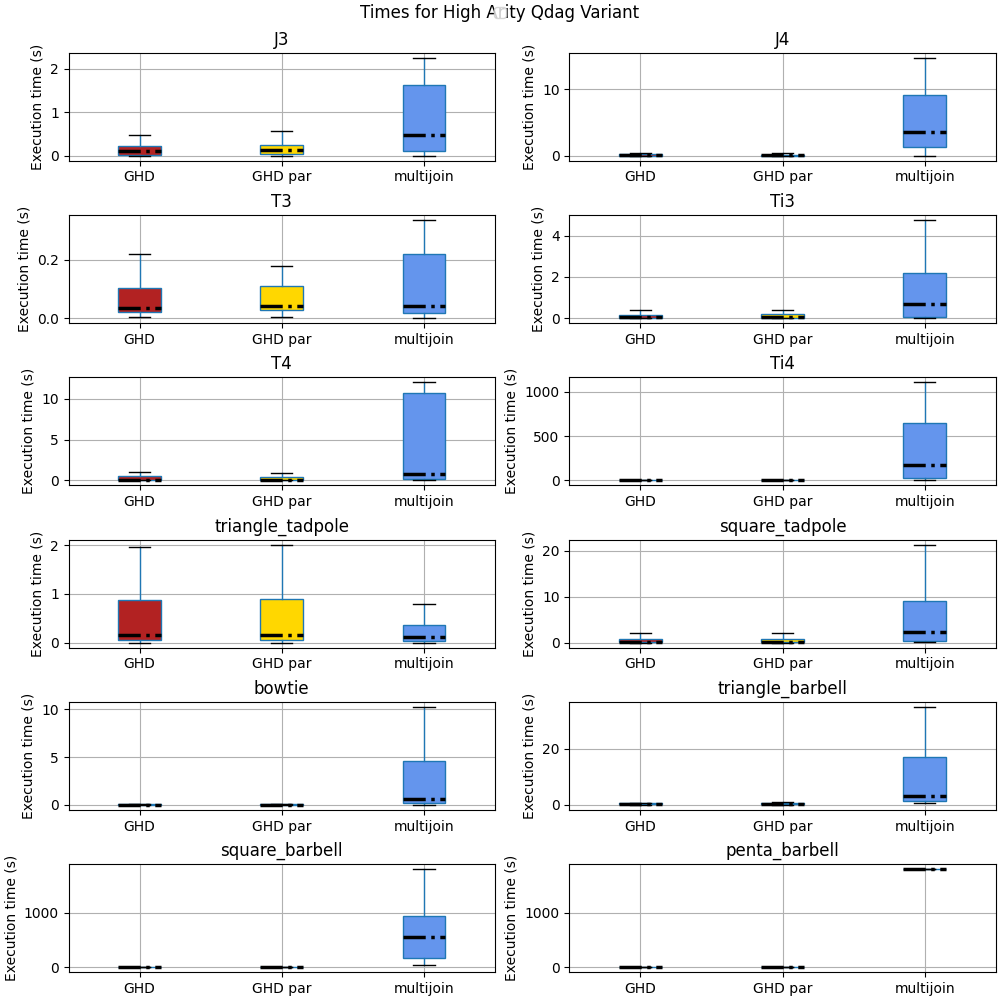
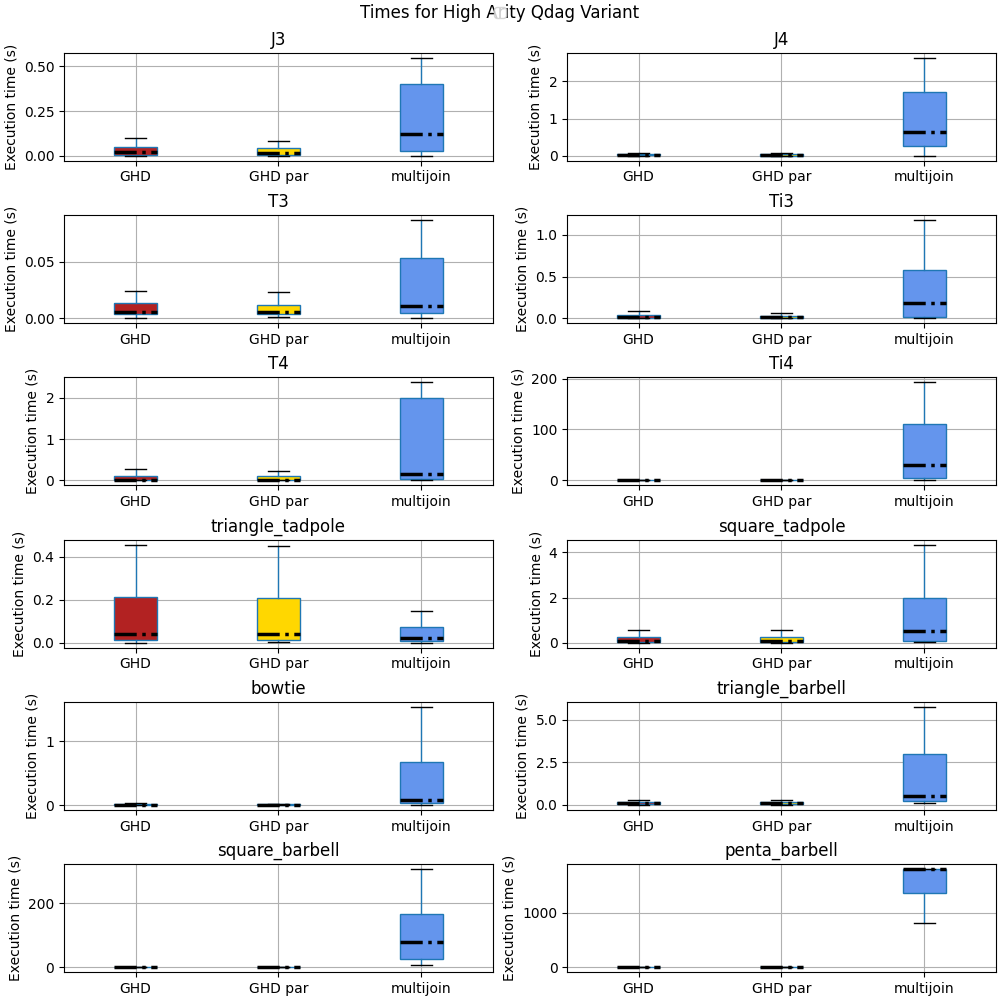
new charts

diff --git a/plotter.py b/plotter.py
@@ -37,27 +37,28 @@ def plot_config():
     fig.suptitle('Times for Different Decompositions in high arity qdag')
 
     for i, m in enumerate(multi):
-        df1 = pd.read_csv(f"outputs_time/ha_{m}_ghd_yk_1.csv", names=["time"])
-        df2 = pd.read_csv(f"outputs_time/ha_{m}_ghd_yk_2.csv", names=["time"])
-        df3 = pd.read_csv(f"outputs_time/ha_{m}_ghd_yk_3.csv", names=["time"])
-
-        res = pd.merge(df1, df2, left_index=True, right_index=True, suffixes=('_1', '_2'))
-        res = pd.merge(res, df3, left_index=True, right_index=True)
-        res.rename(columns={"time_1":"config 1", "time_2":"config 2", "time":"config 3"}, inplace=True)
+        res = pd.read_csv(f"outputs_time/{m}_ghd_yk_1.csv", names=["time"])
+        for j in range(2, ghd_confs[m]+1):
+            res = pd.merge(res, pd.read_csv(f"outputs_time/{m}_ghd_yk_{j}.csv", names=["time"]), left_index=True, right_index=True, suffixes=('', f'_{j}'))
+        
+        res=res.set_axis([f'config {x}' for x in range(1, ghd_confs[m]+1)], axis='columns')
+        
+        print(res.columns)
+        
         ax = axes[i//2][i%2]
         ax.set_title(m)
         ax.set_ylabel('Execution time (s)')
         bplot, props = res.boxplot(
-            ax=ax, 
-            column=['config 1', 'config 2', 'config 3'],
+            ax=ax,   
             patch_artist=True,
             medianprops=medianprops,
             showmeans=False,
             showfliers=False,
-            return_type='both',
-            label=['config 1', 'config 2', 'config 3'],
+            return_type='both'
         )
-        colors = ['firebrick', 'gold', 'cornflowerblue']
+        ax.tick_params(axis='x', labelrotation=45)
+
+        colors = ['firebrick', 'gold', 'cornflowerblue', 'saddlebrown', 'lightpink', 'darkseagreen', 'mediumpurple', 'darkorange', 'olive']
 
         for patch, color in zip(props['boxes'], colors):
             patch.set_facecolor(color)
@@ -76,20 +77,20 @@ def plot_times():
 
     for i, p in enumerate(patterns):
         if p in multi:
-            df1 = pd.read_csv(f"outputs_time/ha_{p}_ghd_yk_1.csv", names=["time"])
+            yk_res = pd.read_csv(f"outputs_time/{p}_ghd_yk_1.csv", names=["time"])
             for j in range(2, ghd_confs[p]+1):
-                yk_res = pd.merge(df1, pd.read_csv(f"outputs_time/ha_{p}_ghd_yk_{j}.csv", names=["time"]), left_index=True, right_index=True, suffixes=('_1', f'_{j}'))
+                yk_res = pd.merge(yk_res, pd.read_csv(f"outputs_time/{p}_ghd_yk_{j}.csv", names=["time"]), left_index=True, right_index=True, suffixes=('', f'_{j}'))
             yk_res["GHD"] = yk_res.min(axis=1)
-            df1p = pd.read_csv(f"outputs_time/ha_{p}_ghd_yk_par_1.csv", names=["time"])
-            for j in range(1, ghd_confs[p]+1):
-                ykp_res = pd.merge(df1p, pd.read_csv(f"outputs_time/ha_{p}_ghd_yk_{j}.csv", names=["time"]), left_index=True, right_index=True, suffixes=('_1', f'_{j}'))
-            
+            ykp_res = pd.read_csv(f"outputs_time/{p}_ghd_yk_par_1.csv", names=["time"])
+            for j in range(2, ghd_confs[p]+1):
+                ykp_res = pd.merge(ykp_res, pd.read_csv(f"outputs_time/{p}_ghd_yk_par_{j}.csv", names=["time"]), left_index=True, right_index=True, suffixes=('', f'_{j}'))
+
             ykp_res["GHD par"] = ykp_res.min(axis=1)
-            df_mj = pd.read_csv(f"outputs_time/ha_{p}_ghd_mj.csv", names=["multijoin"])
+            df_mj = pd.read_csv(f"outputs_time/{p}_ghd_mj.csv", names=["multijoin"])
         else:
-            yk_res = pd.read_csv(f"outputs_time/ha_{p}_yk.csv", names=["GHD"])
-            ykp_res = pd.read_csv(f"outputs_time/ha_{p}_yk_par.csv", names=["GHD par"])
-            df_mj = pd.read_csv(f"outputs_time/ha_{p}_mj.csv", names=["multijoin"])
+            yk_res = pd.read_csv(f"outputs_time/{p}_yk_1.csv", names=["GHD"])
+            ykp_res = pd.read_csv(f"outputs_time/{p}_yk_par_1.csv", names=["GHD par"])
+            df_mj = pd.read_csv(f"outputs_time/{p}_mj.csv", names=["multijoin"])
 
         df_mj[df_mj['multijoin'] == 'timeout'] = 1800
         df_mj["multijoin"] = pd.to_numeric(df_mj["multijoin"], downcast='float')
@@ -118,7 +119,7 @@ def plot_times():
 
     handles, labels = plt.gca().get_legend_handles_labels()
     fig.legend(handles, labels, loc='upper center')
-    plt.savefig("outputs/times")
+    plt.savefig("outputs/ha_times")
 
 def yk_times():
     patterns = ["J3", "J4", "T3", "Ti3", "T4", "Ti4", "triangle_tadpole", "square_tadpole", "bowtie", "triangle_barbell", "square_barbell", "penta_barbell"]
@@ -126,31 +127,51 @@ def yk_times():
     multi = ["J3", "J4", "T3", "Ti3", "T4", "Ti4"]
     data = {"Pattern": [], "Mean difference": [], "Median difference": [], "Most  hindrance": [], "Most improvement": []}
     df = pd.DataFrame(data)
+    medianprops = dict(linestyle='-.', linewidth=2.5, color='black')
+    df = pd.DataFrame(data)
+    fig = plt.figure(layout='constrained', figsize=(10, 10))
+    axes = fig.subplots(6, 2)
+    fig.suptitle('Times for High Arity Qdag Variant')
     for i, p in enumerate(patterns):
         if p in multi:
-            df1 = pd.read_csv(f"outputs_time/ha_{p}_ghd_yk_1.csv", names=["time"])
-            df2 = pd.read_csv(f"outputs_time/ha_{p}_ghd_yk_2.csv", names=["time"])
-            df3 = pd.read_csv(f"outputs_time/ha_{p}_ghd_yk_3.csv", names=["time"])
-
-            yk_res = pd.merge(df1, df2, left_index=True, right_index=True, suffixes=('_1', '_2'))
-            yk_res = pd.merge(yk_res, df3, left_index=True, right_index=True)
+            yk_res = pd.read_csv(f"outputs_time/{p}_ghd_yk_1.csv", names=["time"])
+            for j in range(2, ghd_confs[p]+1):
+                yk_res = pd.merge(yk_res, pd.read_csv(f"outputs_time/{p}_ghd_yk_{j}.csv", names=["time"]), left_index=True, right_index=True, suffixes=('', f'_{j}'))
             yk_res["GHD"] = yk_res.min(axis=1)
-            df1p = pd.read_csv(f"outputs_time/ha_{p}_ghd_yk_par_1.csv", names=["time"])
-            df2p = pd.read_csv(f"outputs_time/ha_{p}_ghd_yk_par_2.csv", names=["time"])
-            df3p = pd.read_csv(f"outputs_time/ha_{p}_ghd_yk_par_3.csv", names=["time"])
-
-            ykp_res = pd.merge(df1p, df2p, left_index=True, right_index=True)
-            ykp_res = pd.merge(ykp_res, df3p, left_index=True, right_index=True)
+            ykp_res = pd.read_csv(f"outputs_time/{p}_ghd_yk_par_1.csv", names=["time"])
+            for j in range(2, ghd_confs[p]+1):
+                ykp_res = pd.merge(ykp_res, pd.read_csv(f"outputs_time/{p}_ghd_yk_par_{j}.csv", names=["time"]), left_index=True, right_index=True, suffixes=('', f'_{j}'))
+            print(yk_res)
             ykp_res["GHD par"] = ykp_res.min(axis=1)
+            print(ykp_res)
         else:
-            yk_res = pd.read_csv(f"outputs_time/ha_{p}_yk.csv", names=["GHD"])
-            ykp_res = pd.read_csv(f"outputs_time/ha_{p}_yk_par.csv", names=["GHD par"])
+            yk_res = pd.read_csv(f"outputs_time/{p}_yk_1.csv", names=["GHD"])
+            ykp_res = pd.read_csv(f"outputs_time/{p}_yk_par_1.csv", names=["GHD par"])
 
         res = pd.merge(yk_res[["GHD"]], ykp_res[["GHD par"]], left_index=True, right_index=True)
         res["diff"] = 100*(1 - res["GHD par"] / res["GHD"])
+        ax = axes[i//2][i%2]
+        ax.set_title(p)
+        ax.set_ylabel('Execution time (s)')
+        bplot, props = res.boxplot(
+            ax=ax,
+            column=["GHD", "GHD par"],
+            patch_artist=True,
+            medianprops=medianprops,
+            showmeans=False,
+            showfliers=False,
+            return_type='both',
+        )
+        colors = ['firebrick', 'gold']
+
+        for patch, color in zip(props['boxes'], colors):
+            patch.set_facecolor(color)
         row = {"Pattern": p, "Mean difference": round(res["diff"].mean(),2), "Median difference": round(res["diff"].median(),2), "Most  hindrance":round(res["diff"].min(),2), "Most improvement":round(res["diff"].max(),2)}
         df.loc[len(df)] = row
-    df.to_csv("outputs/ha_percentages.csv", index=False)
+    handles, labels = plt.gca().get_legend_handles_labels()
+    fig.legend(handles, labels, loc='upper center')
+    plt.savefig("outputs/ha_yk_times")
+    df.to_csv("outputs/percentages.csv", index=False)
         
 def timeouts():
     patterns = ["J3", "J4", "T3", "Ti3", "T4", "Ti4", "triangle_tadpole", "square_tadpole", "bowtie", "triangle_barbell", "square_barbell", "penta_barbell"]
@@ -159,32 +180,35 @@ def timeouts():
     df = pd.DataFrame(data)
     for i, p in enumerate(patterns):
         if p in multi:
-            df1 = pd.read_csv(f"outputs_time/ha_{p}_ghd_yk_1.csv", names=["time"])
-            df2 = pd.read_csv(f"outputs_time/ha_{p}_ghd_yk_2.csv", names=["time"])
-            df3 = pd.read_csv(f"outputs_time/ha_{p}_ghd_yk_3.csv", names=["time"])
-
-            yk_res = pd.merge(df1, df2, left_index=True, right_index=True, suffixes=('_1', '_2'))
-            yk_res = pd.merge(yk_res, df3, left_index=True, right_index=True)
+            df1 = pd.read_csv(f"outputs_time/{p}_ghd_yk_1.csv", names=["time"])
+            for j in range(2, ghd_confs[p]+1):
+                yk_res = pd.merge(df1, pd.read_csv(f"outputs_time/{p}_ghd_yk_{j}.csv", names=["time"]), left_index=True, right_index=True, suffixes=('_1', f'_{j}'))
             yk_res["GHD"] = yk_res.min(axis=1)
-            df_mj = pd.read_csv(f"outputs_time/ha_{p}_ghd_mj.csv", names=["multijoin"])
+            df1p = pd.read_csv(f"outputs_time/{p}_ghd_yk_par_1.csv", names=["time"])
+            for j in range(1, ghd_confs[p]+1):
+                ykp_res = pd.merge(df1p, pd.read_csv(f"outputs_time/{p}_ghd_yk_{j}.csv", names=["time"]), left_index=True, right_index=True, suffixes=('_1', f'_{j}'))
+            
+            ykp_res["GHD par"] = ykp_res.min(axis=1)
+            df_mj = pd.read_csv(f"outputs_time/{p}_ghd_mj.csv", names=["multijoin"])
         else:
-            yk_res = pd.read_csv(f"outputs_time/ha_{p}_yk.csv", names=["GHD"])
-            df_mj = pd.read_csv(f"outputs_time/ha_{p}_mj.csv", names=["multijoin"])
+            yk_res = pd.read_csv(f"outputs_time/{p}_yk_1.csv", names=["GHD"])
+            ykp_res = pd.read_csv(f"outputs_time/{p}_yk_par_1.csv", names=["GHD par"])
+            df_mj = pd.read_csv(f"outputs_time/{p}_mj.csv", names=["multijoin"])
 
         res = pd.merge(yk_res[["GHD"]], df_mj, left_index=True, right_index=True)
         if "timeout" in res.multijoin.unique():
             row = {"Pattern": p, "Number of timeouts": len(res[res.multijoin=="timeout"]), "Average query time for GHD [s]": round(res[res.multijoin=="timeout"].GHD.mean(),2)}
             df.loc[len(df)] = row
-    df.to_csv("outputs/ha_timeouts.csv", index=False)
+    df.to_csv("outputs/timeouts.csv", index=False)
    
 def size_config():
     multi = ["J3", "J4", "T3", "Ti3", "T4", "Ti4"]
     medianprops = dict(linestyle='-.', linewidth=2.5, color='black')
     rdict = {}
     for i, m in enumerate(multi):
-        df1 = pd.read_csv(f"outputs_space/results_ha_{m}_ghd_yk_1.csv")
-        df2 = pd.read_csv(f"outputs_space/results_ha_{m}_ghd_yk_2.csv")
-        df3 = pd.read_csv(f"outputs_space/results_ha_{m}_ghd_yk_3.csv")
+        df1 = pd.read_csv(f"outputs_space/results_{m}_ghd_yk_1.csv")
+        df2 = pd.read_csv(f"outputs_space/results_{m}_ghd_yk_2.csv")
+        df3 = pd.read_csv(f"outputs_space/results_{m}_ghd_yk_3.csv")
         df1["config"]=1
         df2["config"]=2
         df3["config"]=3 
@@ -196,9 +220,9 @@ def size_config():
         res["post mj results"]=res["post mj results"].str.strip("()").str.split('-').map(lambda x: int(x[0])+int(x[1]))
         smallest = list(res.sort_values('post mj results', ascending=False).groupby('query').head(1).sort_values('query').config)
         print(m, smallest)
-        tdf1 = pd.read_csv(f"outputs_time/ha_{m}_ghd_yk_1.csv", names=["time"])
-        tdf2 = pd.read_csv(f"outputs_time/ha_{m}_ghd_yk_2.csv", names=["time"])
-        tdf3 = pd.read_csv(f"outputs_time/ha_{m}_ghd_yk_3.csv", names=["time"])
+        tdf1 = pd.read_csv(f"outputs_time/{m}_ghd_yk_1.csv", names=["time"])
+        tdf2 = pd.read_csv(f"outputs_time/{m}_ghd_yk_2.csv", names=["time"])
+        tdf3 = pd.read_csv(f"outputs_time/{m}_ghd_yk_3.csv", names=["time"])
         tdf1["config"]=1
         tdf2["config"]=2
         tdf3["config"]=3 
@@ -221,9 +245,9 @@ def number_of_results():
 
     for i, p in enumerate(patterns):
         if p in multi:
-            df1 = pd.read_csv(f"outputs_space/ha_{p}_ghd_yk_1.csv")
+            df1 = pd.read_csv(f"outputs_space/{p}_ghd_yk_1.csv")
         else:
-            df1 = pd.read_csv(f"outputs_space/ha_{p}_yk_1.csv")
+            df1 = pd.read_csv(f"outputs_space/{p}_yk_1.csv")
         row = {"Pattern": p, "Avg Results": round(df1["number of results"].mean(),2), "Median Results":  round(df1["number of results"].median(),2)}
         df.loc[len(df)] = row
     df.to_csv("outputs/number_results.csv", index=False)
@@ -238,9 +262,9 @@ def yk_space():
         temp = {"input":[],"inter":[]}
         df_temp = pd.DataFrame(temp)
         if p in multi:
-            tdf1 = pd.read_csv(f"outputs_time/ha_{p}_ghd_yk_1.csv", names=["time"])
-            tdf2 = pd.read_csv(f"outputs_time/ha_{p}_ghd_yk_2.csv", names=["time"])
-            tdf3 = pd.read_csv(f"outputs_time/ha_{p}_ghd_yk_3.csv", names=["time"])
+            tdf1 = pd.read_csv(f"outputs_time/{p}_ghd_yk_1.csv", names=["time"])
+            tdf2 = pd.read_csv(f"outputs_time/{p}_ghd_yk_2.csv", names=["time"])
+            tdf3 = pd.read_csv(f"outputs_time/{p}_ghd_yk_3.csv", names=["time"])
             tdf1["config"]=1
             tdf2["config"]=2
             tdf3["config"]=3 
@@ -249,9 +273,9 @@ def yk_space():
             tdf3['query'] = np.arange(0, tdf3.shape[0] )
             tres = pd.concat([tdf1,tdf2,tdf3])
             fastest = list(tres.sort_values('time', ascending=True).groupby('query').head(1).sort_values('query').config)
-            df1 = pd.read_csv(f"outputs_space/results_ha_{p}_ghd_yk_1.csv")
-            df2 = pd.read_csv(f"outputs_space/results_ha_{p}_ghd_yk_2.csv")
-            df3 = pd.read_csv(f"outputs_space/results_ha_{p}_ghd_yk_3.csv")
+            df1 = pd.read_csv(f"outputs_space/results_{p}_ghd_yk_1.csv")
+            df2 = pd.read_csv(f"outputs_space/results_{p}_ghd_yk_2.csv")
+            df3 = pd.read_csv(f"outputs_space/results_{p}_ghd_yk_3.csv")
             df1['query'] = np.arange(0, df1.shape[0] )
             df2['query'] = np.arange(0, df2.shape[0] )
             df3['query'] = np.arange(0, df3.shape[0] )
@@ -273,7 +297,7 @@ def yk_space():
             row = {"Pattern": p, "Avg factor input": round( df_temp["input"].mean(),2), "Median factor input": round( df_temp["input"].median(),2), "Avg factor inter": round(df_temp["inter"].mean(),2), "Median factor inter": round(df_temp["inter"].median(),2)}
             df.loc[len(df)] = row
         else:
-            yk_res = pd.read_csv(f"outputs_space/ha_{p}_yk.csv")
+            yk_res = pd.read_csv(f"outputs_space/{p}_yk.csv")
             yk_res["input"] = yk_res['qdags']/yk_res['result']
             yk_res["inter"] = yk_res['post mj']/yk_res['result']
             row = {"Pattern": p, "Avg factor input": round( yk_res["input"].mean(),2), "Median factor input": round( yk_res["input"].median(),2), "Avg factor inter": round(yk_res["inter"].mean(),2), "Median factor inter": round(yk_res["inter"].median(),2)}
@@ -282,9 +306,9 @@ def yk_space():
     df.to_csv("outputs/avg_size.csv", index=False)
 
 '''
-            df1 = pd.read_csv(f"outputs_space/results_ha_{p}_ghd_yk_1.csv")
-            df2 = pd.read_csv(f"outputs_space/results_ha_{p}_ghd_yk_2.csv")
-            df3 = pd.read_csv(f"outputs_space/results_ha_{p}_ghd_yk_3.csv")
+            df1 = pd.read_csv(f"outputs_space/results_{p}_ghd_yk_1.csv")
+            df2 = pd.read_csv(f"outputs_space/results_{p}_ghd_yk_2.csv")
+            df3 = pd.read_csv(f"outputs_space/results_{p}_ghd_yk_3.csv")
             df1["config"]=1
             df2["config"]=2
             df3["config"]=3 
@@ -306,9 +330,9 @@ def bpt():
     res =pd.DataFrame(data)
     for i, p in enumerate(patterns):
         if p in multi:
-            df1 = pd.read_csv(f"outputs_space/results_ha_{p}_ghd_yk_1.csv")
+            df1 = pd.read_csv(f"outputs_space/results_{p}_ghd_yk_1.csv")
         else:
-            df1 = pd.read_csv(f"outputs_space/ha_{p}_yk.csv")
+            df1 = pd.read_csv(f"outputs_space/{p}_yk.csv")
         df1["ratio"]=df1.qdags/df1.tuples
         res = pd.concat([res, df1[["tuples", "qdags", "ratio"]]])
     row = {"average": round( res["ratio"].mean(),2), "median": round( res["ratio"].median(),2)}
@@ -316,4 +340,4 @@ def bpt():
     df.to_csv("outputs/bpt.csv", index=False)
        
 if __name__ == '__main__':
-    yk_space()
+    plot_config()
